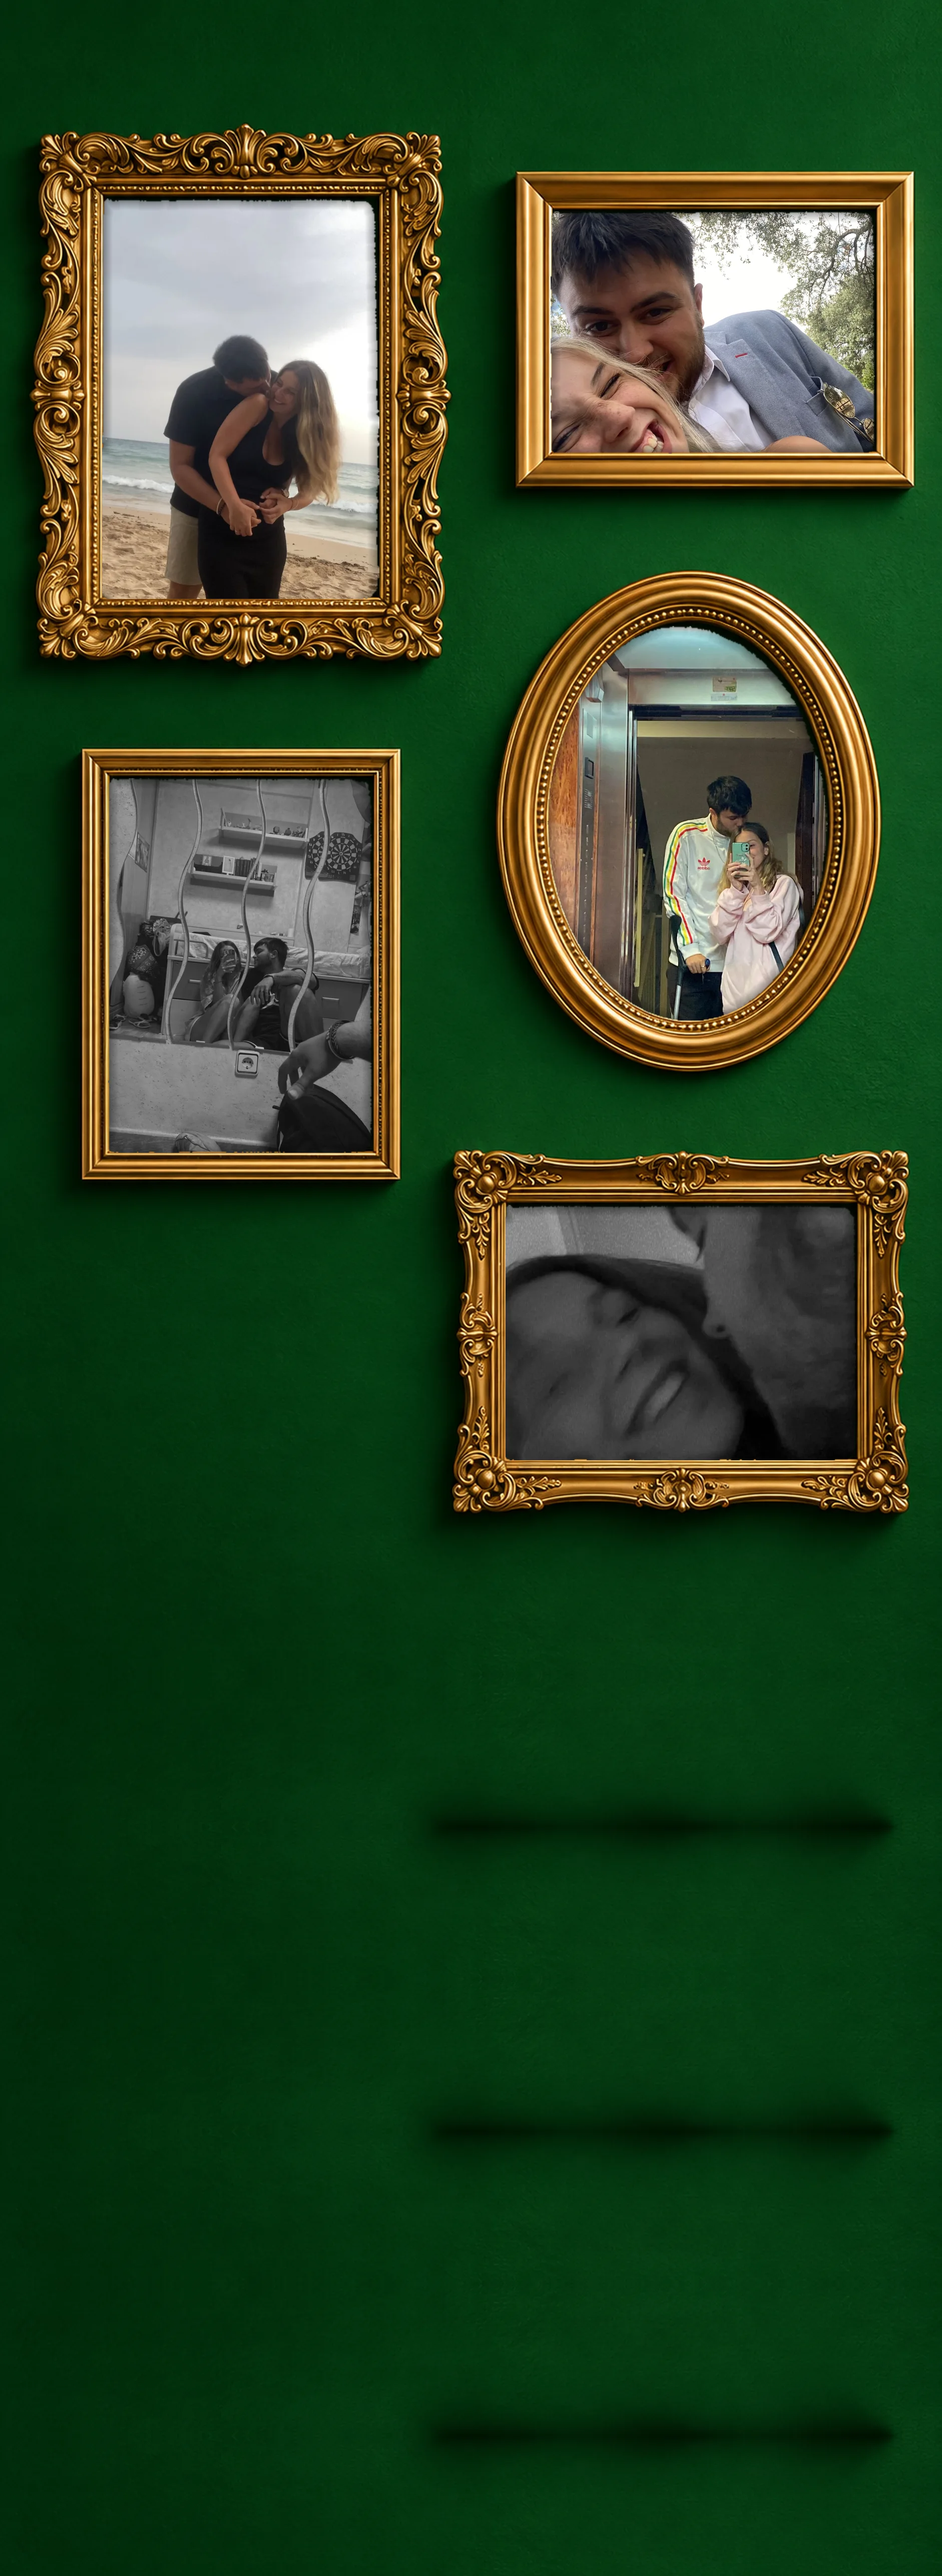
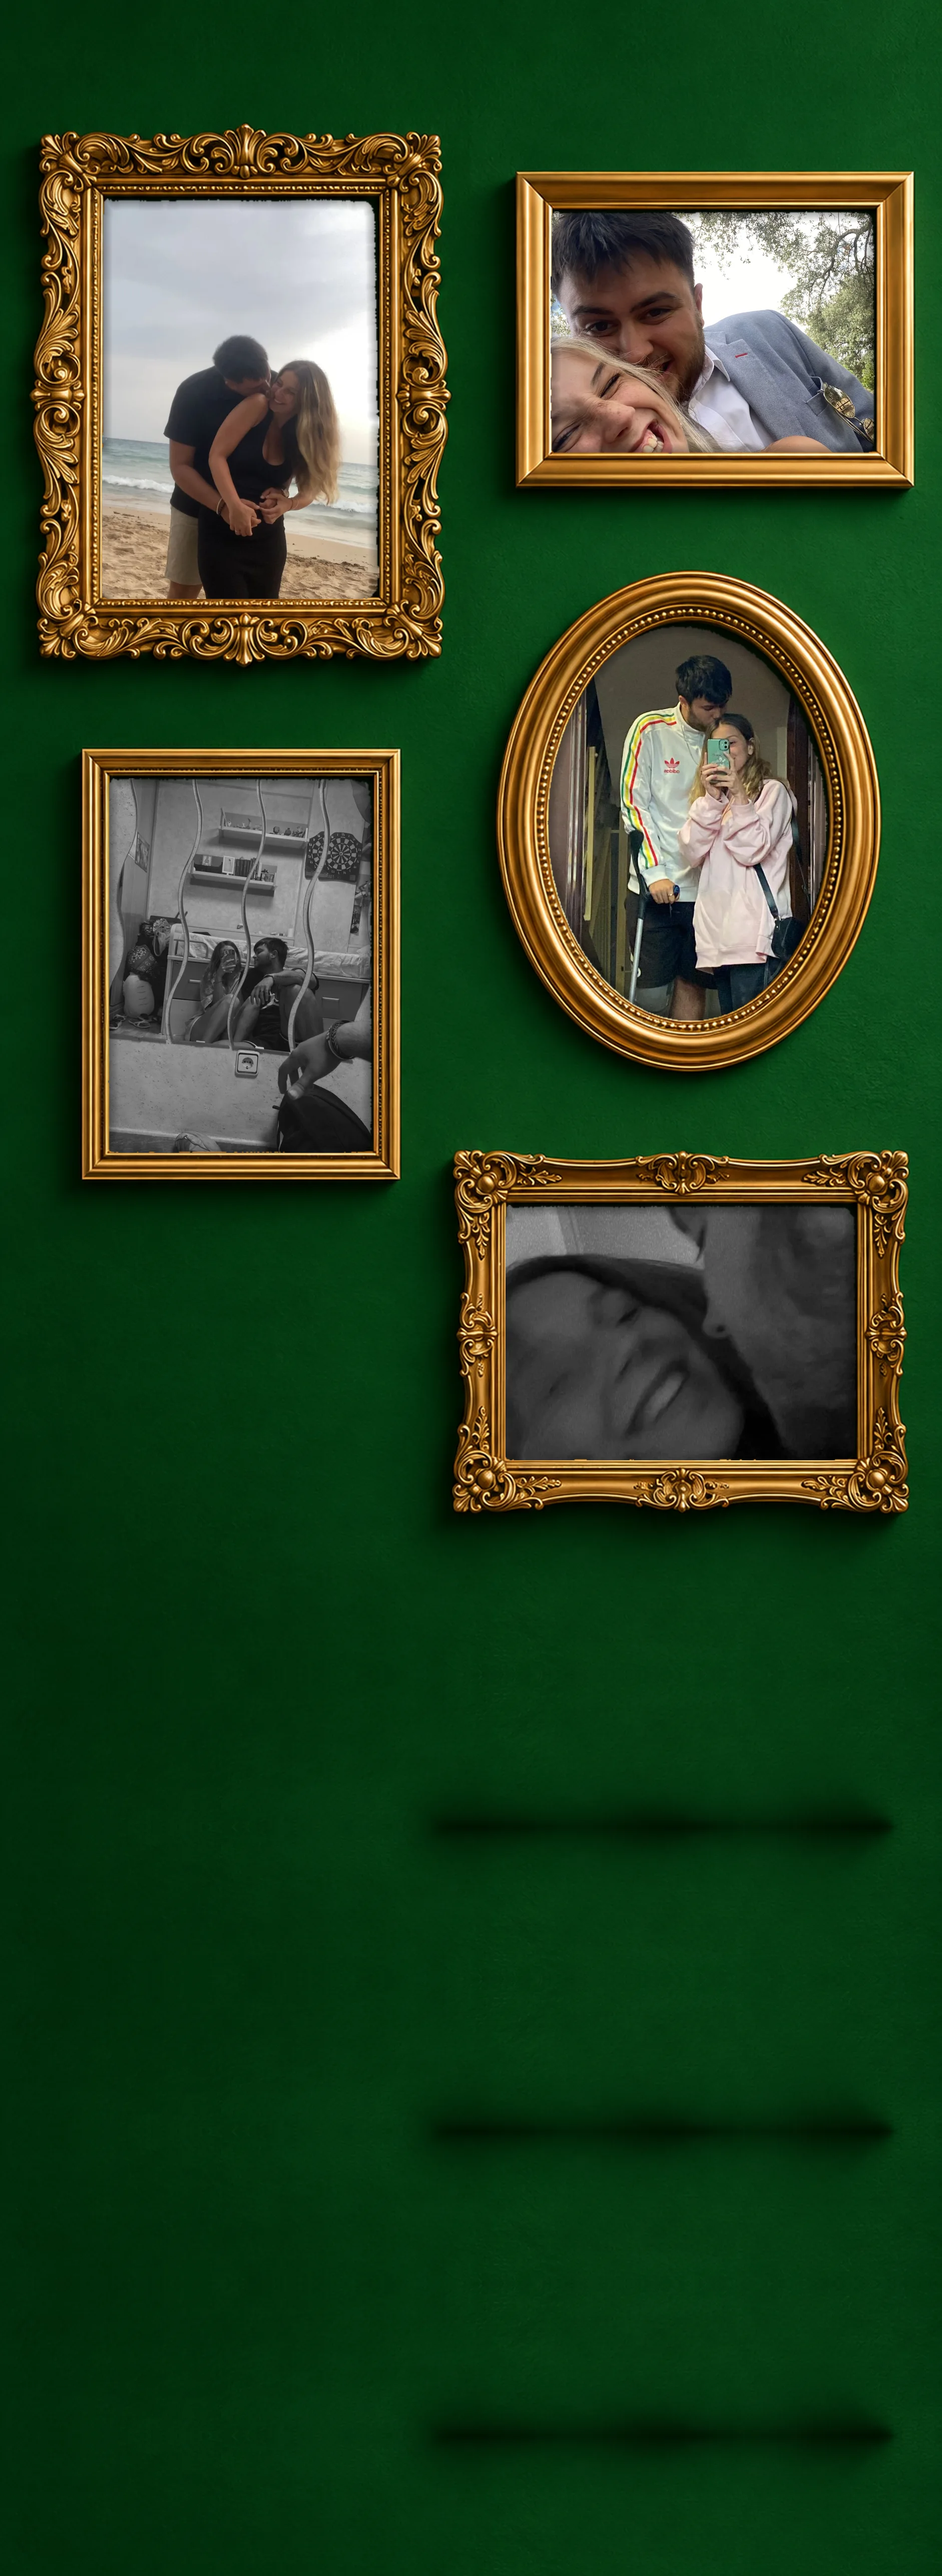
Password-protect the whole site and reframe the oval photo
middleware.js runs on Vercel before any file is served; only hashes of
the password are stored in the repo.

Claude-Session: https://claude.ai/code/session_01GjLTrjLzzh3c6aFvnZHdaW

Changed region(s): [[0.5855, 0.2177, 0.8937, 0.4044]]

diff --git a/middleware.js b/middleware.js
@@ -1,0 +1,61 @@
+// Password gate for the whole site (runs on Vercel before any file is served).
+// Only hashes are stored here, never the password itself.
[1 lines of base64/hex data omitted]
+const COOKIE = 'pase';
[1 lines of base64/hex data omitted]
+
+export const config = { matcher: '/:path*' };
+
+const sha256 = async s => [...new Uint8Array(await crypto.subtle.digest('SHA-256', new TextEncoder().encode(s)))]
+  .map(b => b.toString(16).padStart(2, '0')).join('');
+const cont = () => new Response(null, { headers: { 'x-middleware-next': '1' } });   // let the request through
+
+export default async function middleware(request) {
+  const url = new URL(request.url);
+  const cookies = Object.fromEntries((request.headers.get('cookie') || '').split(/;\s*/).filter(Boolean)
+    .map(c => { const i = c.indexOf('='); return [c.slice(0, i), c.slice(i + 1)]; }));
+
+  if (url.pathname === '/entrar' && request.method === 'POST') {
+    const form = await request.formData();
+    const clave = String(form.get('clave') || '');
+    if (await sha256(clave) === PASS_SHA256) {
+      return new Response(null, { status: 303, headers: {
+        location: '/',
+        'set-cookie': `${COOKIE}=${COOKIE_VALUE}; Path=/; Max-Age=31536000; HttpOnly; Secure; SameSite=Lax`,
+      } });
+    }
+    return page(true);
+  }
+  if (cookies[COOKIE] === COOKIE_VALUE) return cont();
+  return page(false);
+}
+
+function page(error) {
+  return new Response(`<!doctype html><html lang="es"><head><meta charset="utf-8">
+<meta name="viewport" content="width=device-width,initial-scale=1,viewport-fit=cover"><meta name="robots" content="noindex">
+<title>Feliz Navidad mi vida 💚</title>
+<link href="https://fonts.googleapis.com/css2?family=Fredoka:wght@600;700&family=Great+Vibes&display=swap" rel="stylesheet">
+<style>
+*{box-sizing:border-box}html,body{margin:0;height:100%}
+body{display:grid;place-items:center;padding:20px;font-family:Fredoka,system-ui,sans-serif;color:#fff3d6;
+  background:radial-gradient(ellipse at 50% 30%,#0e6a2a,#03420f 60%,#022a0a)}
+form{width:min(100%,360px);text-align:center;padding:30px 22px 26px;border-radius:22px;background:rgba(0,0,0,.22);
+  box-shadow:0 0 0 3px #e2b54a,0 0 0 6px #7a4f08,0 0 30px rgba(255,200,60,.35),0 20px 50px rgba(0,0,0,.5)}
+.s{font-family:"Great Vibes",cursive;font-size:44px;line-height:1;display:block}
+h1{margin:0 0 6px;font-size:30px;letter-spacing:2px}
+p{margin:0 0 20px;opacity:.85}
+input{width:100%;font:600 18px Fredoka,sans-serif;text-align:center;padding:13px;border-radius:12px;border:2px solid #e2b54a;background:#fff8e6;color:#3a2410;outline:none}
+input:focus{box-shadow:0 0 0 4px rgba(226,181,74,.45)}
+button{margin-top:16px;border:0;cursor:pointer;font:700 17px Fredoka,sans-serif;letter-spacing:1px;color:#fff;padding:13px 34px;border-radius:999px;
+  background:linear-gradient(#3fd04a,#0f8a1c 55%,#0a6b14);box-shadow:0 0 0 3px #e9b93a,0 0 0 5px #7a4f08,0 0 16px rgba(255,190,40,.55),inset 0 2px 0 rgba(255,255,255,.45);
+  text-shadow:0 1px 2px rgba(0,0,0,.45)}
+.err{color:#ffb3b3;margin:12px 0 0;font-weight:600}
+</style></head><body>
+<form method="post" action="/entrar">
+  <span class="s">Feliz Navidad</span><h1>MI VIDA 💚</h1>
+  <p>Escribe la contraseña para entrar</p>
+  <input name="clave" type="password" autocomplete="current-password" placeholder="Contraseña" required autofocus>
+  <button type="submit">ENTRAR</button>
+  ${error ? '<div class="err">Contraseña incorrecta, prueba otra vez 🎄</div>' : ''}
+</form></body></html>`, { status: 401, headers: { 'content-type': 'text/html; charset=utf-8', 'cache-control': 'no-store' } });
+}

diff --git a/tools/carga_marcos.py b/tools/carga_marcos.py
@@ -10,7 +10,7 @@ a=np.array(bg).astype(int)
 green=(a[...,1]>a[...,0]+15)&(a[...,1]>a[...,2])                    # the wall colour
 # (frame, centre of its opening, photo, vertical focus 0..1 of the photo)
 FR=[((240,400),'e9ed16bf-image.jpg',.47),((712,330),'c9b4b247-image.jpg',.46),
-    ((690,820),'c51db12a-image.jpg',.42),((240,965),'fe750bda-image.jpg',.47),((680,1330),'bb22e70f-image.jpg',.55)]
+    ((690,820),'c51db12a-image.jpg',(170,400,828,1345)),((240,965),'fe750bda-image.jpg',.47),((680,1330),'bb22e70f-image.jpg',.55)]
 lab,_=ndimage.label(green)
 out=big.copy()
 for (cx,cy),f,fy in FR:
@@ -19,6 +19,7 @@ for (cx,cy),f,fy in FR:
   ys,xs=np.where(m);x0,x1,y0,y1=xs.min(),xs.max()+1,ys.min(),ys.max()+1
   w,h=(x1-x0)*S,(y1-y0)*S
   ph=ImageOps.exif_transpose(Image.open(U+f)).convert('RGB')
+  if isinstance(fy,tuple): ph=ph.crop(fy);fy=.5                       # explicit crop box around the two of us
   r=max(w/ph.width,h/ph.height);ph=ph.resize((round(ph.width*r),round(ph.height*r)),Image.LANCZOS)
   ox=(ph.width-w)//2;oy=int(np.clip(fy*ph.height-h/2,0,ph.height-h))
   ph=ph.crop((ox,oy,ox+w,oy+h))
